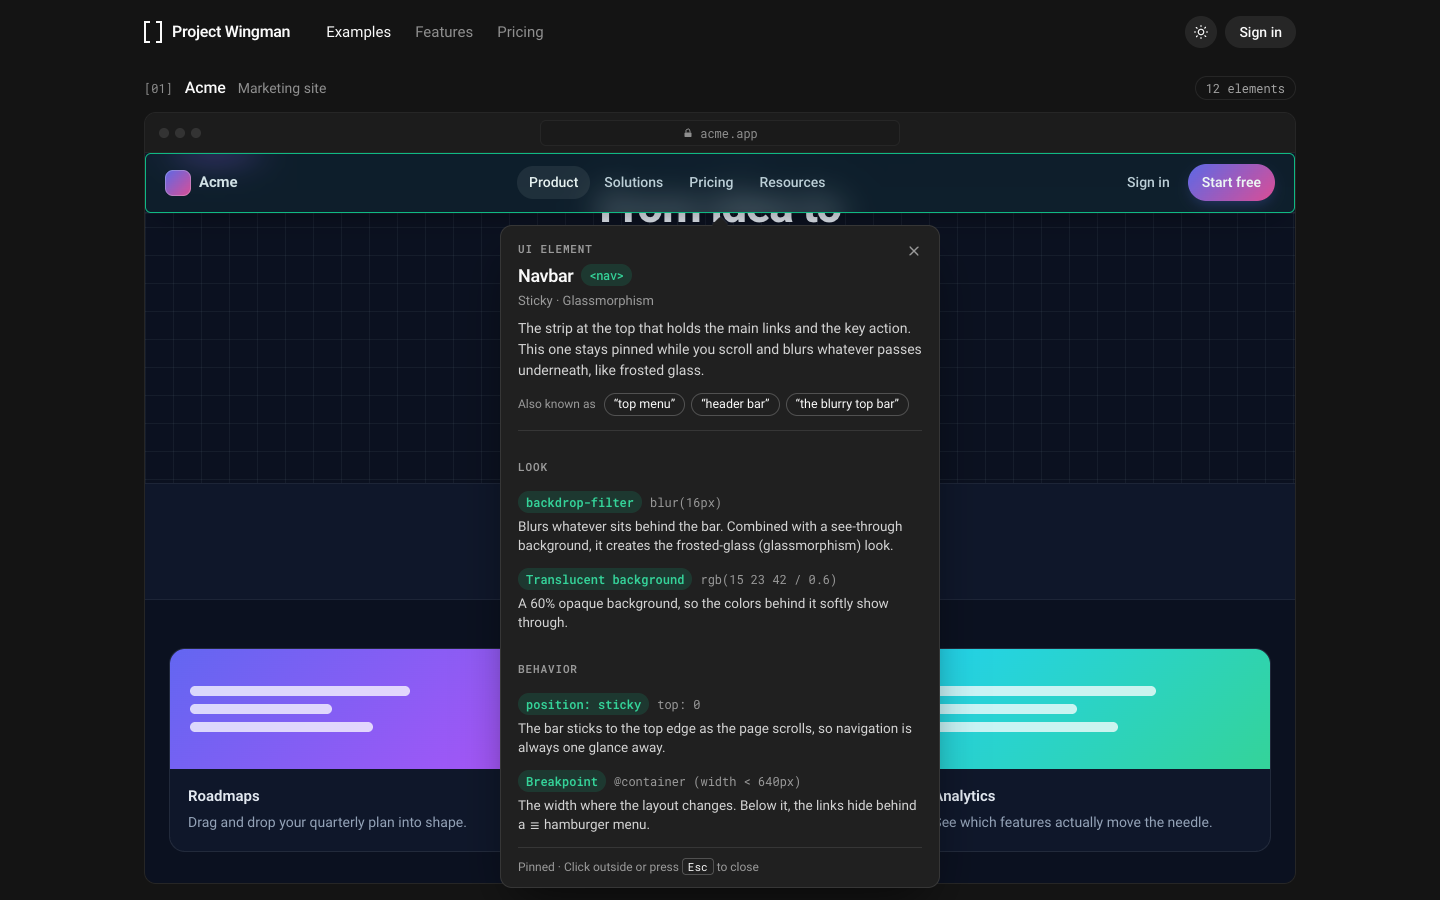
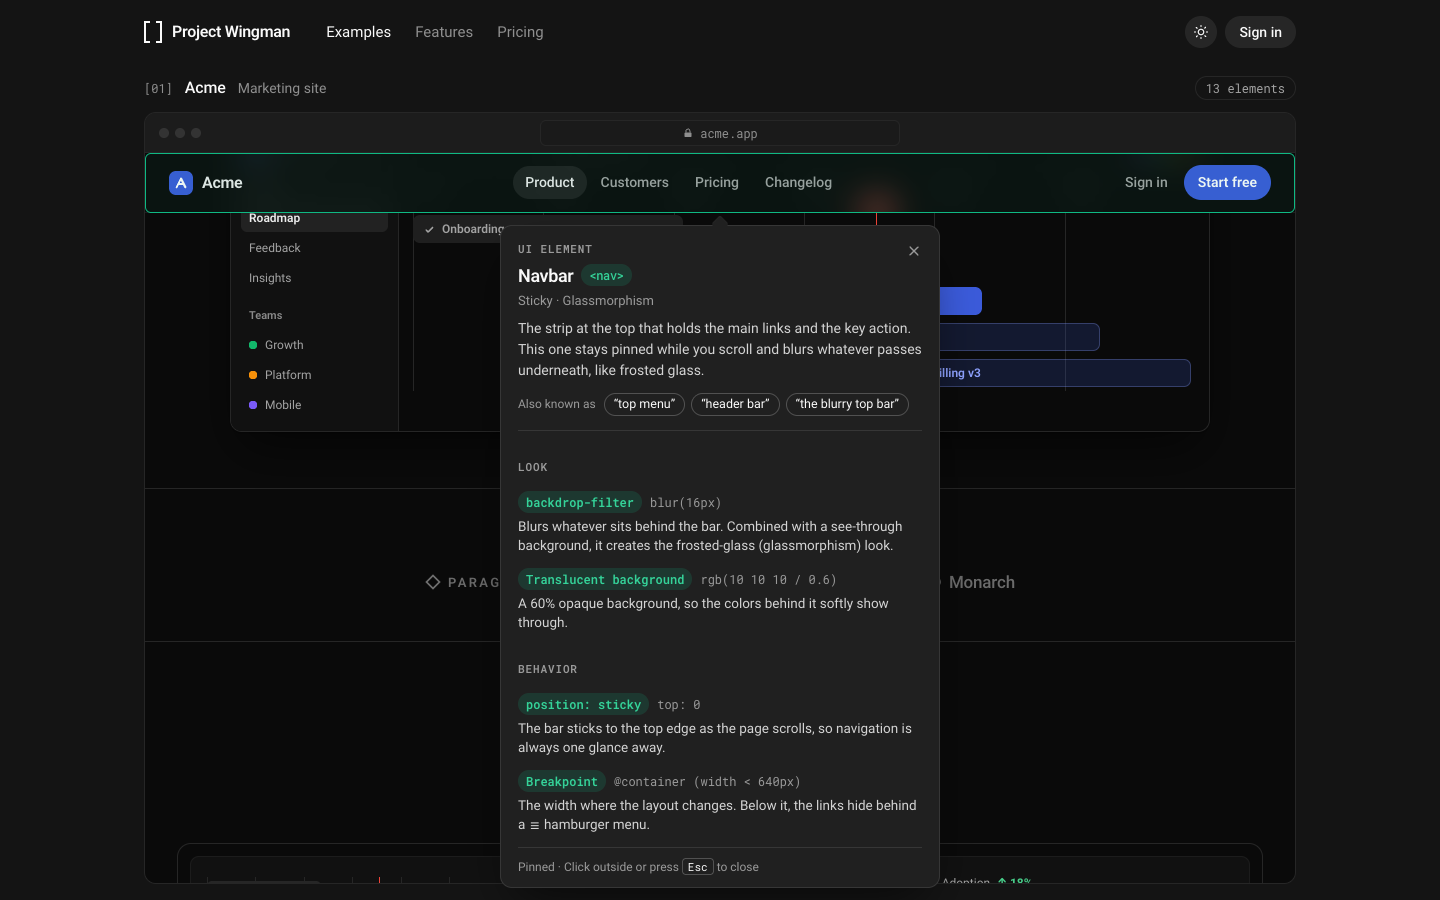
Update the README inspect screenshots for the new Acme
The navbar's explanation is open while the product screenshot passes
under the frosted glass, in light and dark.

diff --git a/README.md b/README.md
@@ -17,7 +17,7 @@ balloons show the values for the theme you're in.
 
 <picture>
   <source media="(prefers-color-scheme: dark)" srcset="docs/screenshots/inspect-dark.png">
-  <img alt="The Acme example pinned in its scroll scene, with the frosted-glass navbar's explanation open" src="docs/screenshots/inspect-light.png">
+  <img alt="The Acme example pinned in its scroll scene: its product screenshot passes under the frosted-glass navbar, whose explanation is open" src="docs/screenshots/inspect-light.png">
 </picture>
 
 Three mobile apps side by side, with a preview of Muse's Liquid Glass navbar:
